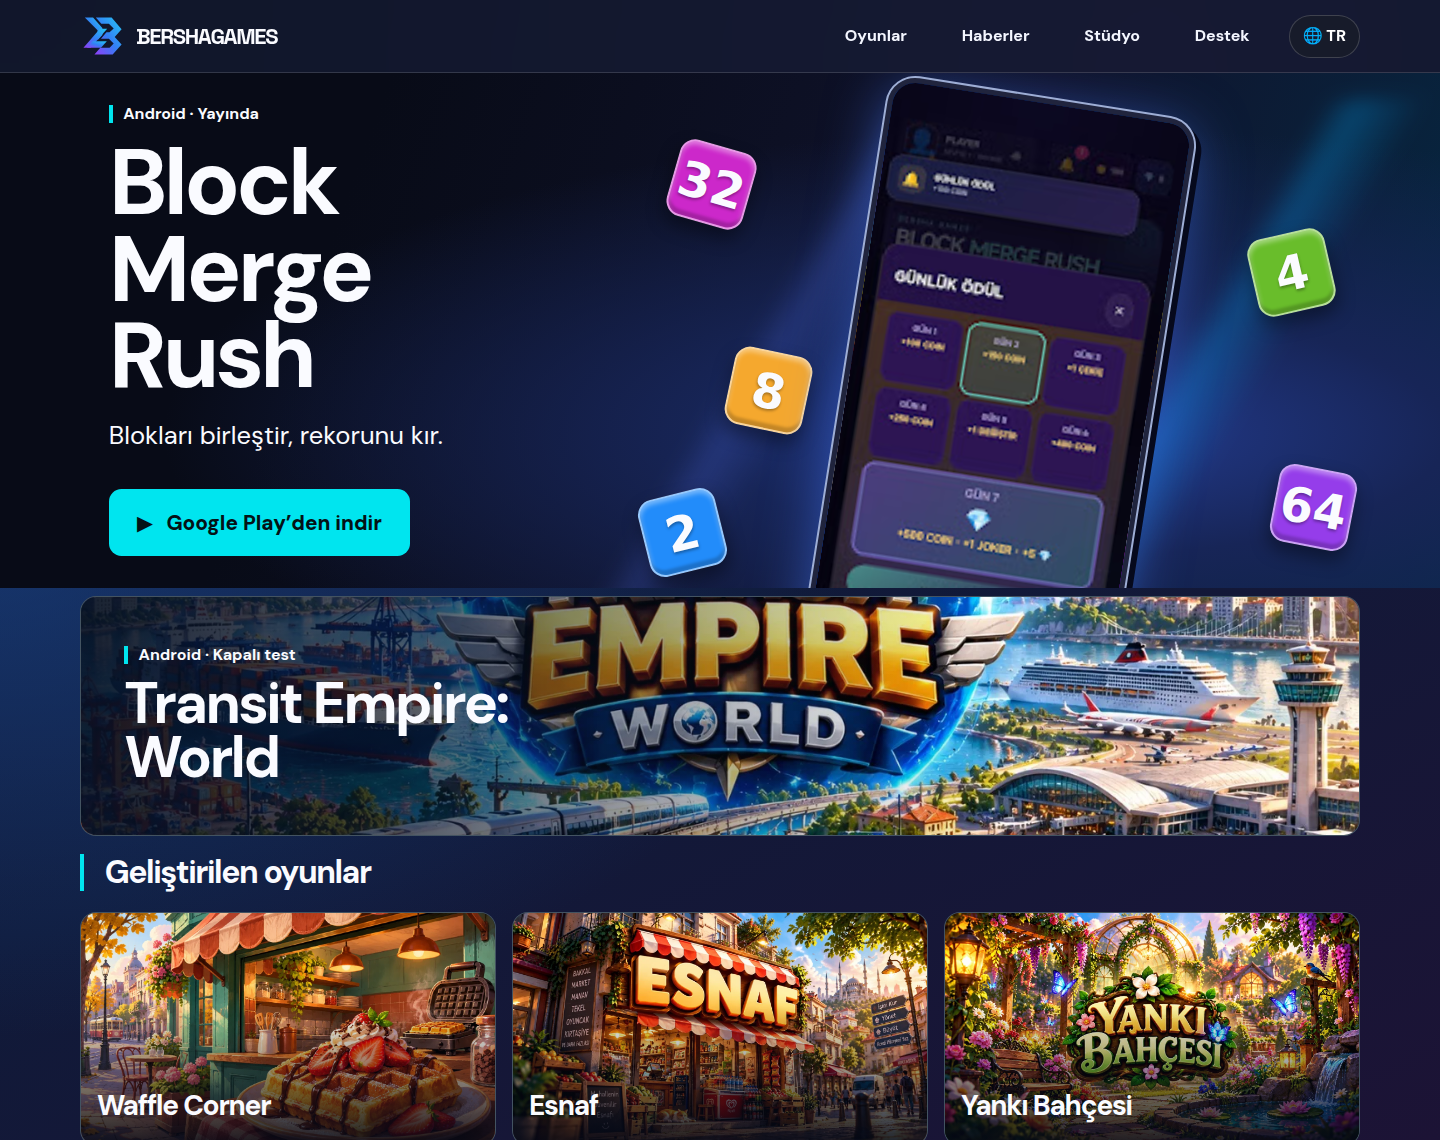
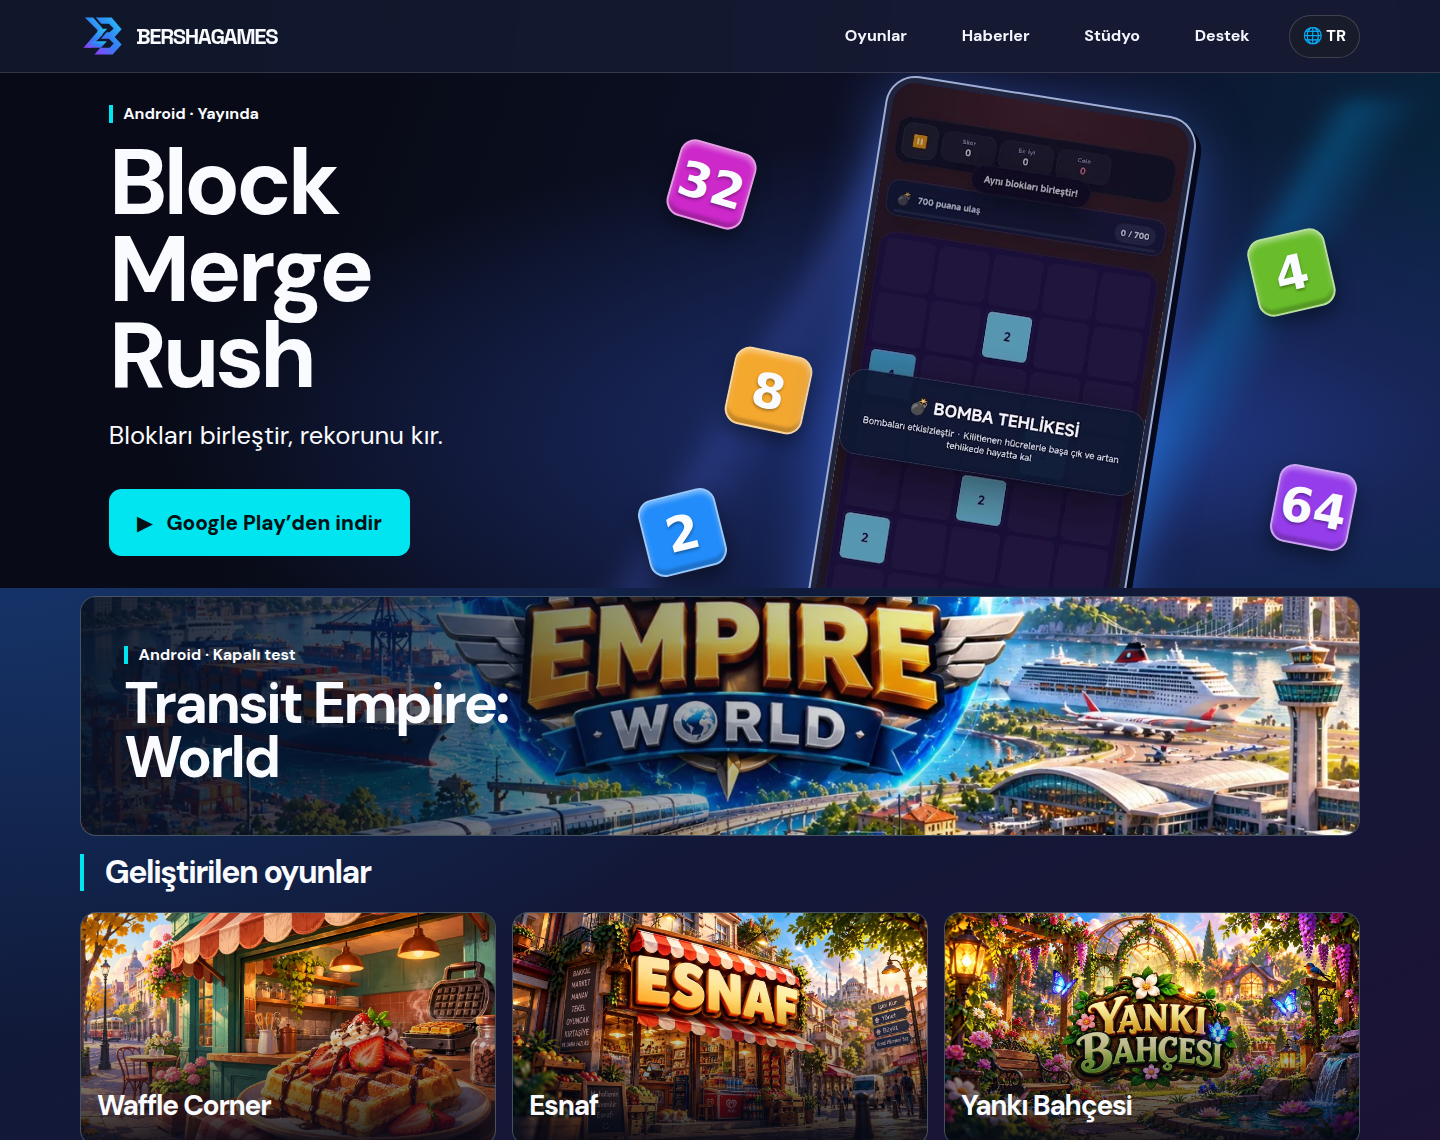
Render desktop and mobile previews

Changed region(s): [[0.5625, 0.0614, 0.8438, 0.5219]]

diff --git a/index.html b/index.html
@@ -9,7 +9,7 @@
       </div>
       <div class="rush-art" aria-hidden="true">
         <span class="tile pink">32</span><span class="tile amber">8</span><span class="tile blue">2</span>
-        <div class="handset"><img width="275" height="592" src="https://play-lh.googleusercontent.com/3IJ1flQuKLkbyv0dH9BzQTzznzCVBupMzzEhq7GlVAV4SorN-Ycj_DNZjwY-Cvy1bUrhOiHSlxFrLym0T_7J=w526-h296" alt="" referrerpolicy="no-referrer" fetchpriority="high"></div>
+        <div class="handset"><img width="275" height="592" src="/assets/showcase/bmr-gameplay.webp" alt="" fetchpriority="high"></div>
         <span class="tile green">4</span><span class="tile violet">64</span>
       </div>
     </div>
